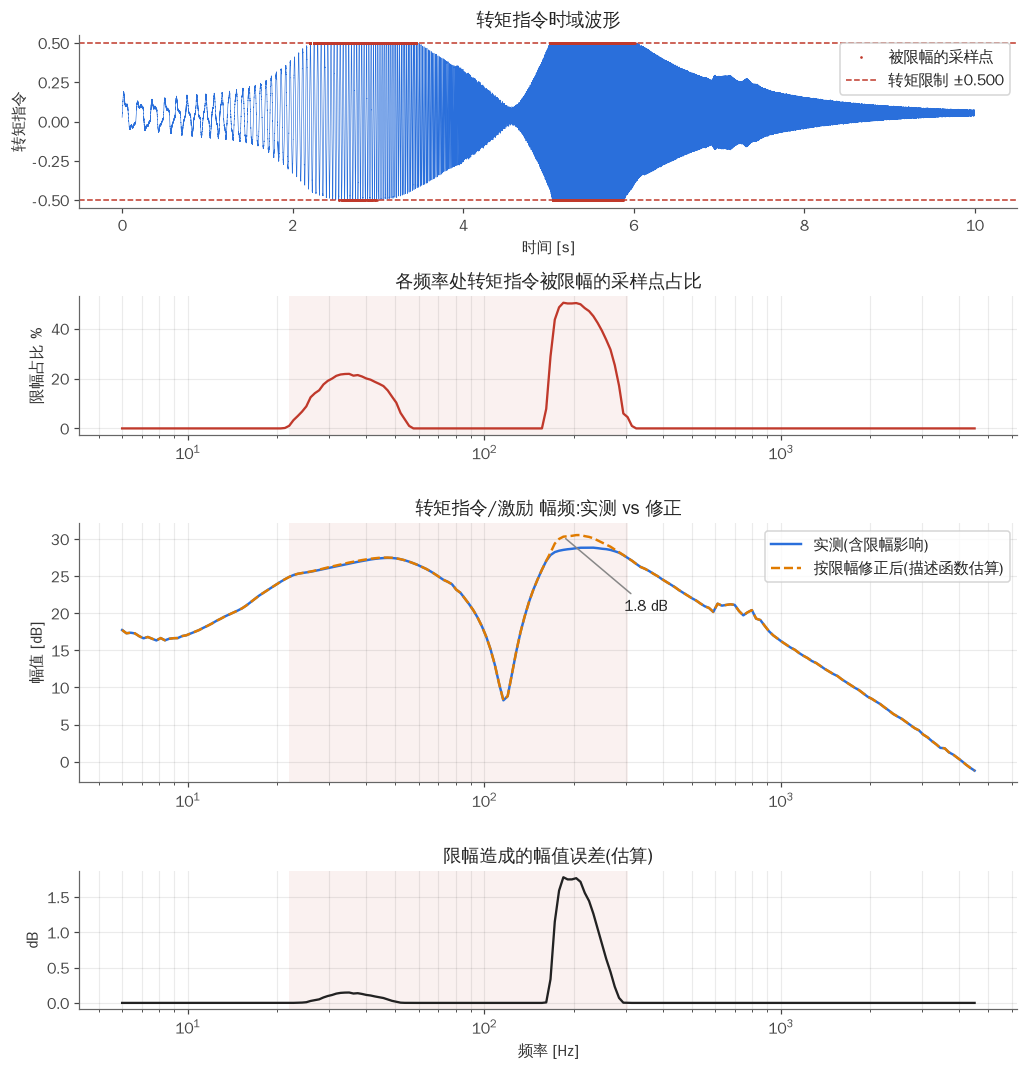
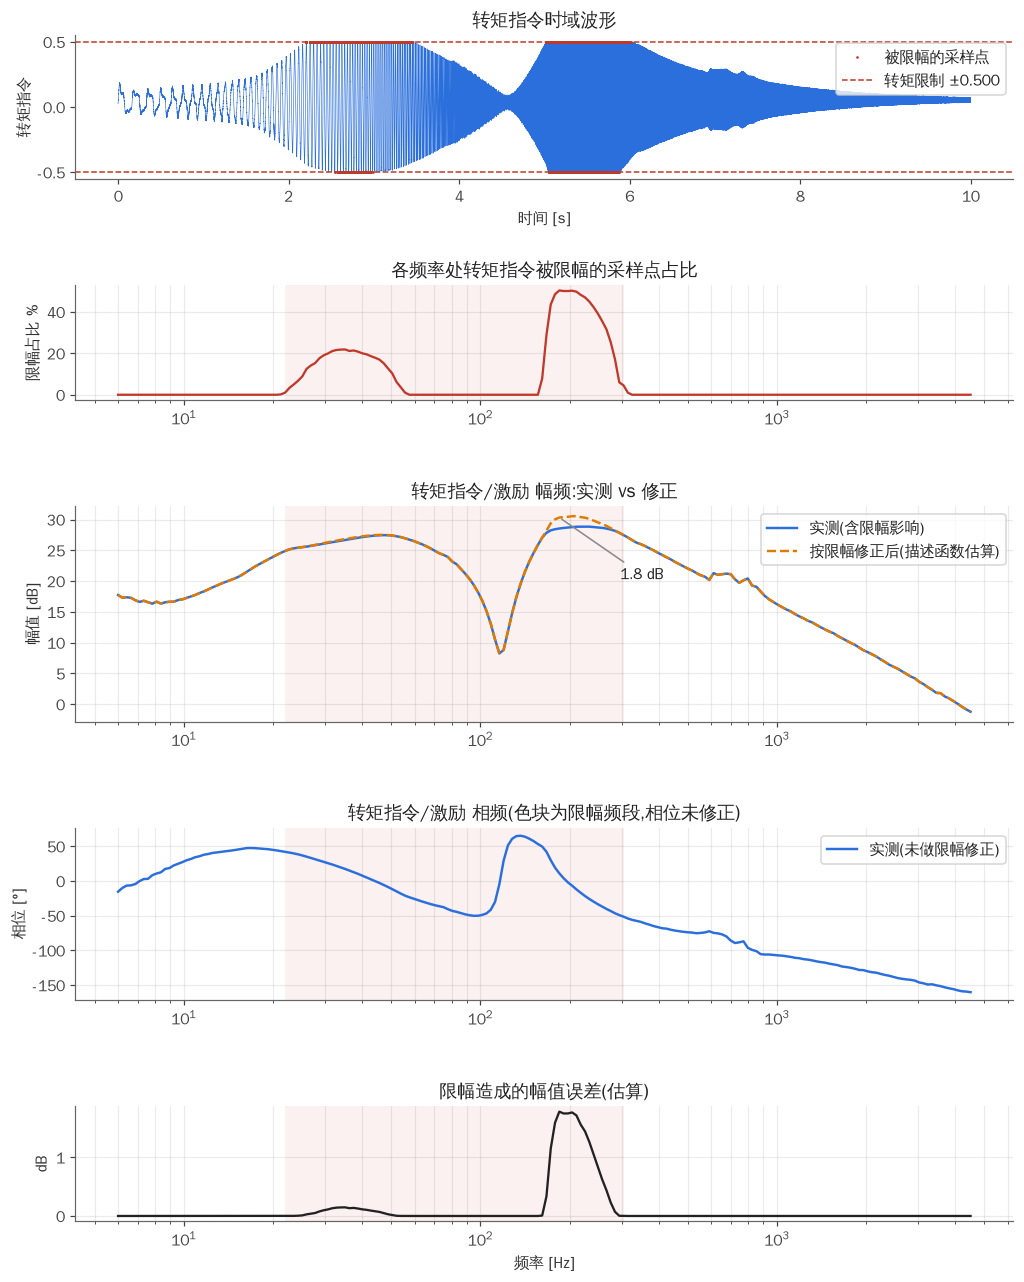
Add phase panel to saturation comparison figure
Claude-Session: https://claude.ai/code/session_01PxevCnqB8UYuwWaCSZuAZJ

diff --git a/out/sat_bode_compare.py b/out/sat_bode_compare.py
@@ -69,8 +69,8 @@ def band(ax):
     ax.axvspan(lo, hi, color=RED, alpha=.07, lw=0)
     ax.grid(True, which='both')
 
-fig = plt.figure(figsize=(11, 11.5))
-gs = fig.add_gridspec(4, 1, height_ratios=[1, .8, 1.5, .8], hspace=.5)
+fig = plt.figure(figsize=(11, 14))
+gs = fig.add_gridspec(5, 1, height_ratios=[1, .8, 1.5, 1.2, .8], hspace=.7)
 ax = fig.add_subplot(gs[0])
 clip = np.abs(x3) >= thr
 ax.plot(t, x3, lw=.4, color=BLUE)
@@ -88,7 +88,12 @@ ax.set(ylabel='幅值 [dB]', title='转矩指令/激励 幅频:实测 vs 修正'
 ax.annotate(f'{err.max():.1f} dB', (fq[err.argmax()], db(Hc31)[err.argmax()]), (fq[err.argmax()] * 1.6, db(Hc31)[err.argmax()] - 10),
             arrowprops=dict(arrowstyle='-', color=GRAY), color='#222')
 
-ax = fig.add_subplot(gs[3]); band(ax); ax.semilogx(fq, err, color='#222', lw=1.5)
+ax = fig.add_subplot(gs[3]); band(ax)
+ph = np.degrees(np.unwrap(np.angle(H31))); ph -= 360 * np.round(ph[0] / 360)   # unwrap, start within ±180°
+ax.semilogx(fq, ph, color=BLUE, lw=1.6, label='实测(未做限幅修正)')
+ax.set(ylabel='相位 [°]', title='转矩指令/激励 相频(色块为限幅频段,相位未修正)'); ax.legend(loc='upper right')
+
+ax = fig.add_subplot(gs[4]); band(ax); ax.semilogx(fq, err, color='#222', lw=1.5)
 ax.set(xlabel='频率 [Hz]', ylabel='dB', title='限幅造成的幅值误差(估算)')
 fig.savefig('sat_bode_compare.png', dpi=110, bbox_inches='tight')
 
